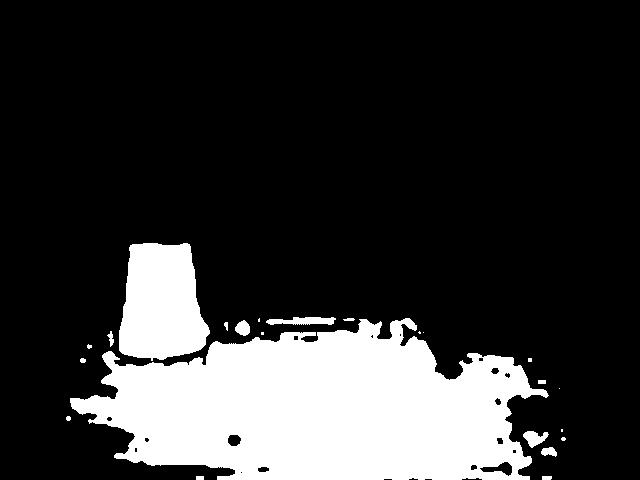
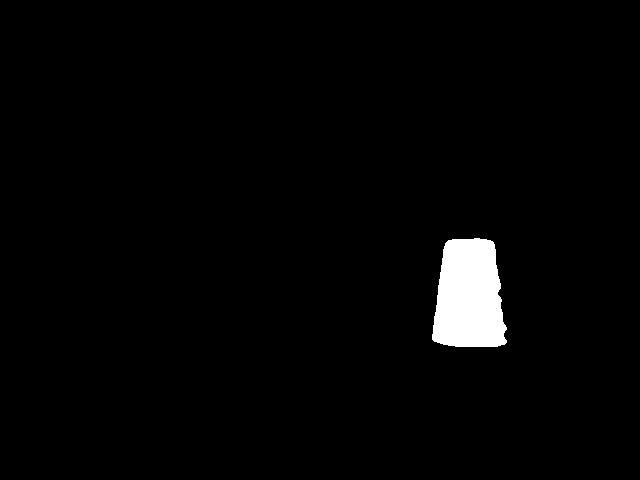
Fixed segmentImage, now I am using the correct kmeansk function

Changed region(s): [[0.0938, 0.5, 0.875, 1.0]]

diff --git a/matlab/segmentImage.m b/matlab/segmentImage.m
@@ -10,7 +10,7 @@ ab = double(imgLAB(:,:,2:3));
 nrows = size(ab, 1);
 ncols = size(ab, 2);
 ab = reshape(ab, nrows * ncols, 2);
-[cluster_idx cluster_centers] = kmeans(ab, segments);
+[cluster_idx cluster_centers] = kmeansK(ab, segments);
 % [cluster_idx] = litekmeans(ab, segments);
 pixel_labels = reshape(cluster_idx, nrows, ncols);
 segment_masks = cell(1, segments);
